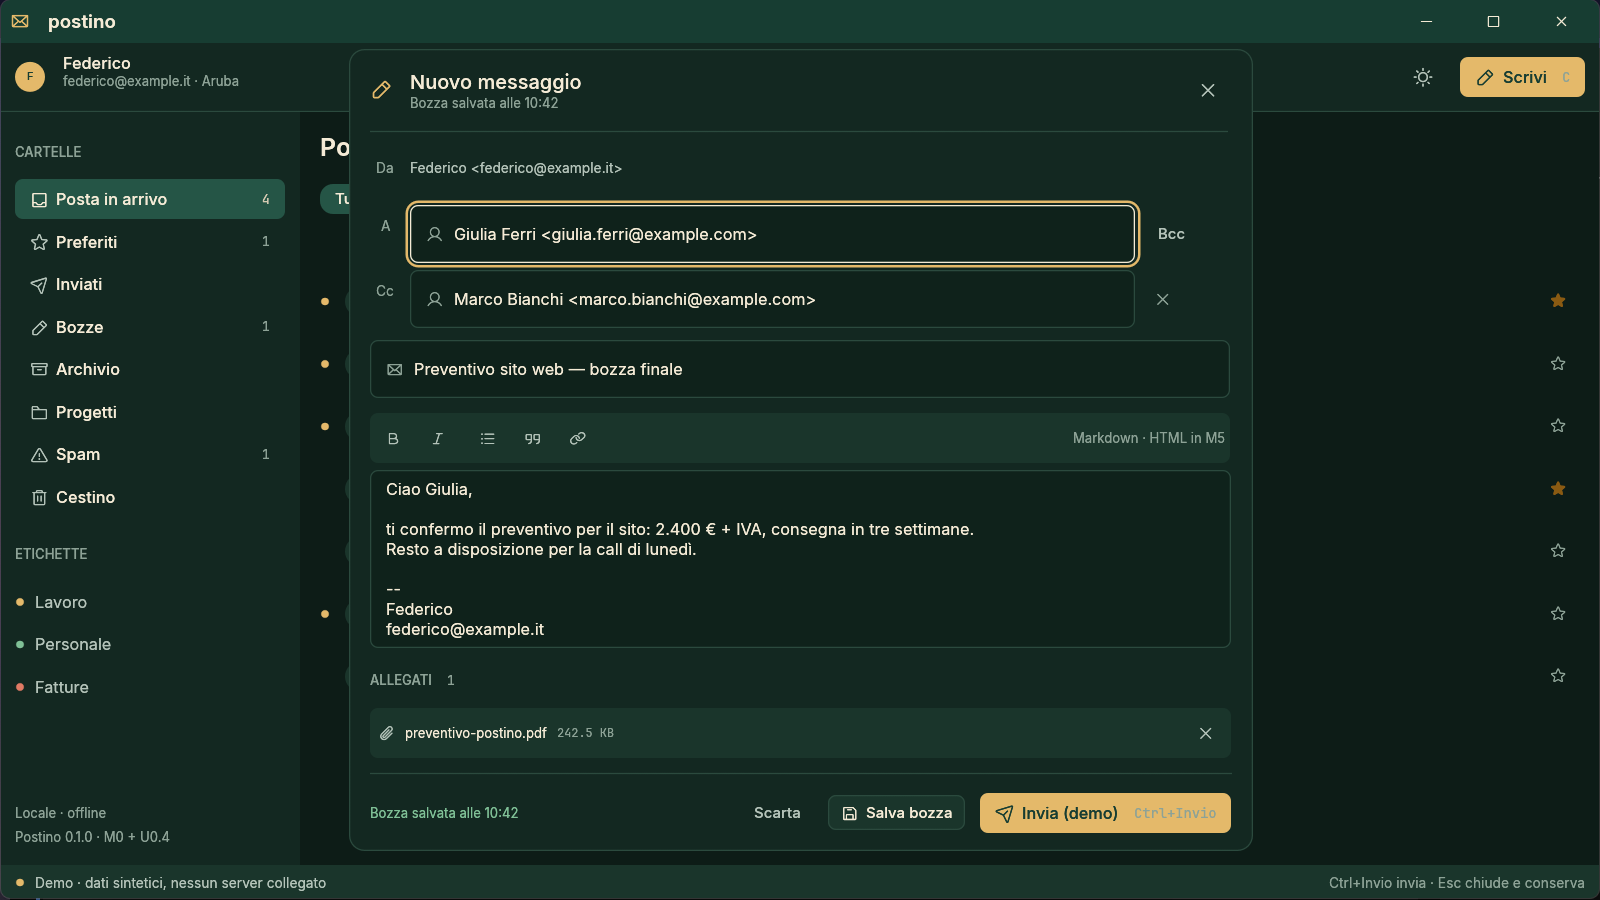
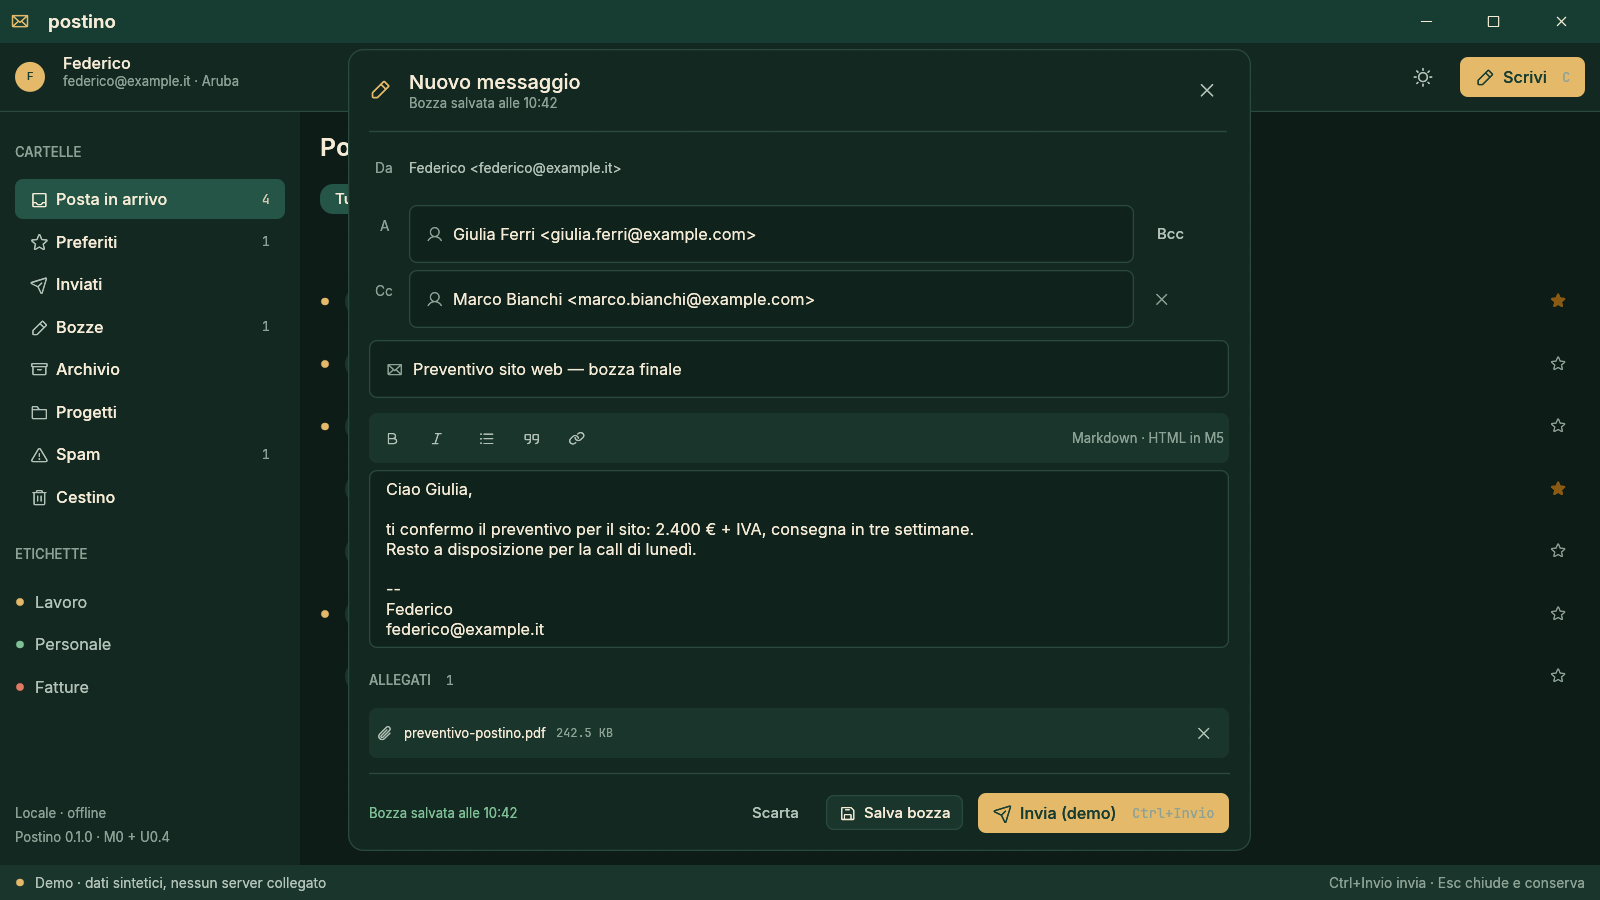
feat: deterministic screenshot harness
- Add postino-app --screenshot <state> --out <png> [--dark] for shell, reading, compose and palette.

- Capture the real egui viewport through ViewportCommand::Screenshot; no OS capture or input injection.

- Seed states deterministically, settle the read timer and disable animations for the shot.

- Regenerate the U0.4 docs images from the harness and refresh their hashes.

- Document the command in docs/development.md.

diff --git a/apps/postino-app/src/app.rs b/apps/postino-app/src/app.rs
@@ -2,15 +2,17 @@
 //! Every action goes through `Engine::call`, the same operation registry the CLI and MCP expose.
 
 use std::collections::BTreeSet;
+use std::path::{Path, PathBuf};
+use std::sync::Arc;
 use std::time::Duration;
 
 use chrono::{DateTime, Datelike, Local, Utc};
 use eframe::egui::containers::Sides;
 use eframe::egui::{
     self, Align, Align2, Color32, CornerRadius, CursorIcon, FontFamily, FontId, Frame, Key, Layout, Margin, Modifiers, Rect, ResizeDirection,
-    RichText, Sense, Stroke, Ui, UiBuilder, Vec2, ViewportCommand, WidgetInfo, WidgetType,
+    RichText, Sense, Stroke, Ui, UiBuilder, UserData, Vec2, ViewportCommand, WidgetInfo, WidgetType,
 };
-use postino_core::{Account, Address, DraftSave, DraftSend, Engine, FolderKind, Message, MessageSummary, MessagesList, SearchResult};
+use postino_core::{Account, Address, Attachment, DraftSave, DraftSend, Engine, FolderKind, Message, MessageSummary, MessagesList, SearchResult};
 use serde_json::json;
 
 use crate::theme::{self, GOLD, IVORY, Tokens};
@@ -21,6 +23,43 @@ use crate::ui::widgets::{
     AUTOSAVE_DELAY, Button, ButtonSize, Chip, ComposeMode, Composer, ComposerFocus, ComposerState, EmptyState, IconButton, IconButtonSize, ListRow,
     Menu, MenuItem, SearchField, SectionHeader, Toast, compose_body, quote_body, signature_body,
 };
+
+/// The shell scenes `--screenshot` can render. Add a label here and a branch in
+/// [`PostinoApp::seed_screenshot`] to grow the set.
+#[derive(Clone, Copy, Debug, PartialEq, Eq)]
+pub enum ScreenshotState {
+    Shell,
+    Reading,
+    Compose,
+    Palette,
+}
+
+impl ScreenshotState {
+    pub fn parse(name: &str) -> Result<Self, String> {
+        match name {
+            "shell" => Ok(Self::Shell),
+            "reading" => Ok(Self::Reading),
+            "compose" => Ok(Self::Compose),
+            "palette" => Ok(Self::Palette),
+            other => Err(format!("unknown screenshot state {other:?}; expected one of: shell, reading, compose, palette")),
+        }
+    }
+}
+
+/// A screenshot request in flight. The event can only arrive on a later frame, so the mode counts
+/// frames both before the request and while waiting for the reply.
+struct ScreenshotMode {
+    out: PathBuf,
+    frames: u32,
+    requested: bool,
+    waited: u32,
+}
+
+/// Let the layout and the font atlas settle before asking for the surface.
+const SCREENSHOT_SETTLE_FRAMES: u32 = 4;
+/// A visible window replies within a frame or two. This bound turns a hidden or minimized window
+/// into an actionable error instead of a hung process.
+const SCREENSHOT_WAIT_FRAMES: u32 = 120;
 
 pub struct PostinoApp {
     engine: Engine,
@@ -53,6 +92,8 @@ pub struct PostinoApp {
     reading_open: bool,
     reading_full: bool,
     composer: ComposerState,
+    /// Deterministic PNG capture, set only by `--screenshot`.
+    screenshot: Option<ScreenshotMode>,
 }
 
 impl PostinoApp {
@@ -60,6 +101,64 @@ impl PostinoApp {
         theme::install_fonts(&cc.egui_ctx);
         theme::apply(&cc.egui_ctx, false);
         Self::demo(custom_chrome)
+    }
+
+    /// Build the shell in the exact state a docs screenshot shows. Used only by `--screenshot`;
+    /// normal startup keeps its own constructor so nothing here runs in a user session.
+    pub fn screenshot(cc: &eframe::CreationContext<'_>, state: ScreenshotState, dark: bool, out: PathBuf) -> Self {
+        theme::install_fonts(&cc.egui_ctx);
+        theme::apply(&cc.egui_ctx, dark);
+        // A docs image must not catch the composer or palette mid fade-in: with no animation the
+        // first laid-out frame is already the final one.
+        cc.egui_ctx.all_styles_mut(|style| style.animation_time = 0.0);
+        let mut app = Self::demo(true);
+        app.dark = dark;
+        app.seed_screenshot(state);
+        app.screenshot = Some(ScreenshotMode { out, frames: 0, requested: false, waited: 0 });
+        app
+    }
+
+    /// Apply the state named on the command line. Every scene is deterministic: no timer, no
+    /// pointer and no focus side effect may change it between the first frame and the capture.
+    fn seed_screenshot(&mut self, state: ScreenshotState) {
+        match state {
+            ScreenshotState::Shell => {}
+            ScreenshotState::Reading => {
+                let first = self.visible_messages().0.first().map(|message| message.id.clone());
+                if let Some(id) = first {
+                    self.open_message(id);
+                    // Show the steady state after the 600 ms read delay: message read, no undo
+                    // toast racing the capture.
+                    self.now = 1.0;
+                    self.maybe_complete_read();
+                    self.toast = None;
+                }
+            }
+            ScreenshotState::Compose => {
+                let mut composer = ComposerState::new(ComposeMode::New);
+                composer.to = "Giulia Ferri <giulia.ferri@example.com>".to_owned();
+                composer.cc = "Marco Bianchi <marco.bianchi@example.com>".to_owned();
+                composer.show_cc = true;
+                composer.subject = "Preventivo sito web — bozza finale".to_owned();
+                composer.body = "Ciao Giulia,\n\nti confermo il preventivo per il sito: 2.400 € + IVA, consegna in tre settimane.\nResto a disposizione per la call di lunedì.\n\n-- \nFederico\nfederico@example.it"
+                    .to_owned();
+                composer.attachments = vec![Attachment {
+                    id: "att_screenshot".to_owned(),
+                    filename: "preventivo-postino.pdf".to_owned(),
+                    mime: "application/pdf".to_owned(),
+                    size: 248_320,
+                }];
+                composer.saved_at = Some("10:42".to_owned());
+                composer.focus = Some(ComposerFocus::Body);
+                self.start_composer(composer);
+            }
+            ScreenshotState::Palette => {
+                self.show_palette = true;
+                self.palette_focus = true;
+                self.palette_query = "scr".to_owned();
+                self.palette_selected = 0;
+            }
+        }
     }
 
     fn demo(custom_chrome: bool) -> Self {
@@ -91,6 +190,7 @@ impl PostinoApp {
             reading_open: false,
             reading_full: false,
             composer: ComposerState::closed(),
+            screenshot: None,
         }
     }
 
@@ -2073,7 +2173,49 @@ impl PostinoApp {
         ui.scope_builder(UiBuilder::new().max_rect(content), |ui| self.show_inner(ui));
     }
 
+    /// Drive the deterministic capture. Runs only when `--screenshot` built the app.
+    fn capture_screenshot(&mut self, ctx: &egui::Context) {
+        let Some(mode) = self.screenshot.as_mut() else {
+            return;
+        };
+        if !mode.requested {
+            mode.frames = mode.frames.saturating_add(1);
+            if mode.frames >= SCREENSHOT_SETTLE_FRAMES {
+                ctx.send_viewport_cmd(ViewportCommand::Screenshot(UserData::default()));
+                mode.requested = true;
+            }
+            ctx.request_repaint();
+            return;
+        }
+        let image = ctx.input(|input| {
+            input.events.iter().find_map(|event| match event {
+                egui::Event::Screenshot { image, .. } => Some(Arc::clone(image)),
+                _ => None,
+            })
+        });
+        if let Some(image) = image {
+            let out = mode.out.clone();
+            self.screenshot = None;
+            match write_png(&out, &image) {
+                Ok(()) => eprintln!("postino-app: screenshot saved to {}", out.display()),
+                Err(error) => {
+                    eprintln!("postino-app: cannot save screenshot: {error}");
+                    std::process::exit(1);
+                }
+            }
+            ctx.send_viewport_cmd(ViewportCommand::Close);
+            return;
+        }
+        mode.waited = mode.waited.saturating_add(1);
+        if mode.waited > SCREENSHOT_WAIT_FRAMES {
+            eprintln!("postino-app: the window did not return a screenshot after {SCREENSHOT_WAIT_FRAMES} frames; is it hidden or minimized?");
+            std::process::exit(1);
+        }
+        ctx.request_repaint();
+    }
+
     fn show_inner(&mut self, ui: &mut egui::Ui) {
+        self.capture_screenshot(ui.ctx());
         self.tick(ui.ctx());
         self.resize_handles(ui.ctx());
         self.handle_shortcuts(ui.ctx());
@@ -2494,6 +2636,22 @@ fn format_size(bytes: u64) -> String {
     }
 }
 
+/// Encode the viewport surface exactly as eframe captured it. `ColorImage` is sRGB with the same
+/// channel order as PNG's RGBA, so no conversion is involved.
+fn write_png(path: &Path, image: &egui::ColorImage) -> Result<(), String> {
+    let width = u32::try_from(image.size[0]).map_err(|_| "the screenshot is wider than a PNG allows".to_owned())?;
+    let height = u32::try_from(image.size[1]).map_err(|_| "the screenshot is taller than a PNG allows".to_owned())?;
+    let pixels = image.pixels.iter().flat_map(|color| color.to_array()).collect::<Vec<u8>>();
+    let file = std::fs::File::create(path).map_err(|error| format!("{}: {error}", path.display()))?;
+    let mut encoder = png::Encoder::new(std::io::BufWriter::new(file), width, height);
+    encoder.set_color(png::ColorType::Rgba);
+    encoder.set_depth(png::BitDepth::Eight);
+    let mut writer = encoder.write_header().map_err(|error| format!("{}: {error}", path.display()))?;
+    writer.write_image_data(&pixels).map_err(|error| format!("{}: {error}", path.display()))?;
+    writer.finish().map_err(|error| format!("{}: {error}", path.display()))?;
+    Ok(())
+}
+
 #[cfg(test)]
 mod tests {
     use super::*;
@@ -2889,5 +3047,20 @@ mod tests {
         let search = filtered_commands("stella");
         assert!(search.iter().any(|command| command.id == "star"));
         assert!(search.iter().all(|command| command.label.to_lowercase().contains("stella")));
+    }
+
+    #[test]
+    fn screenshot_states_parse_and_reject_unknown_labels() {
+        for (name, state) in [
+            ("shell", ScreenshotState::Shell),
+            ("reading", ScreenshotState::Reading),
+            ("compose", ScreenshotState::Compose),
+            ("palette", ScreenshotState::Palette),
+        ] {
+            assert_eq!(ScreenshotState::parse(name), Ok(state), "{name} must be a known scene");
+        }
+        let error = ScreenshotState::parse("labels").expect_err("labels is not a scene yet");
+        assert!(error.contains("unknown screenshot state"), "{error}");
+        assert!(error.contains("shell, reading, compose, palette"), "{error}");
     }
 }

diff --git a/apps/postino-app/src/main.rs b/apps/postino-app/src/main.rs
@@ -8,16 +8,27 @@ mod app;
 mod theme;
 mod ui;
 
+use std::path::PathBuf;
+
 use eframe::egui;
 
 const APP_ICON: &[u8] = include_bytes!("../../../assets/app-icon/postino-256.png");
 
 fn main() -> eframe::Result<()> {
     env_logger::Builder::from_env(env_logger::Env::default().default_filter_or("warn")).target(env_logger::Target::Stderr).init();
-    let gallery = std::env::args().any(|arg| arg == "--gallery");
-    let dark = std::env::args().any(|arg| arg == "--dark");
-    let native_chrome = std::env::args().any(|arg| arg == "--native-chrome");
-    let custom_chrome = !native_chrome && !cfg!(target_os = "macos");
+    let args = std::env::args().skip(1).collect::<Vec<_>>();
+    let screenshot = match parse_screenshot_args(&args) {
+        Ok(request) => request,
+        Err(error) => {
+            eprintln!("postino-app: {error}");
+            std::process::exit(2);
+        }
+    };
+    let gallery = args.iter().any(|arg| arg == "--gallery");
+    let dark = args.iter().any(|arg| arg == "--dark");
+    let native_chrome = args.iter().any(|arg| arg == "--native-chrome");
+    // A screenshot shows the real shell, including its own title bar, on every host.
+    let custom_chrome = screenshot.is_some() || (!native_chrome && !cfg!(target_os = "macos"));
     let (title, size) = if gallery { ("Postino UI kit", [1400.0, 1000.0]) } else { ("Postino", [1280.0, 720.0]) };
     let mut viewport =
         egui::ViewportBuilder::default().with_title(title).with_inner_size(size).with_min_inner_size([980.0, 600.0]).with_visible(true);
@@ -30,9 +41,27 @@ fn main() -> eframe::Result<()> {
         Err(error) => log::warn!("app icon: {error}"),
     }
     let options = eframe::NativeOptions { viewport, ..Default::default() };
+    if let Some((state, out)) = screenshot {
+        return eframe::run_native(title, options, Box::new(move |cc| Ok(Box::new(app::PostinoApp::screenshot(cc, state, dark, out)))));
+    }
     if gallery {
         eframe::run_native(title, options, Box::new(move |cc| Ok(Box::new(ui::gallery::GalleryApp::new(cc, dark)))))
     } else {
         eframe::run_native(title, options, Box::new(move |cc| Ok(Box::new(app::PostinoApp::new(cc, custom_chrome)))))
     }
+}
+
+/// Parse `--screenshot <state> --out <path.png>`. Returns `None` when the flag is absent so the
+/// normal desktop and gallery startup paths are untouched.
+fn parse_screenshot_args(args: &[String]) -> Result<Option<(app::ScreenshotState, PathBuf)>, String> {
+    let Some(position) = args.iter().position(|arg| arg == "--screenshot") else {
+        return Ok(None);
+    };
+    let name = args.get(position + 1).ok_or_else(|| "--screenshot needs a state: shell, reading, compose, palette".to_owned())?;
+    let state = app::ScreenshotState::parse(name)?;
+    let out = match args.iter().position(|arg| arg == "--out").and_then(|position| args.get(position + 1)) {
+        Some(path) => PathBuf::from(path),
+        None => return Err("--screenshot needs --out <path.png>".to_owned()),
+    };
+    Ok(Some((state, out)))
 }

diff --git a/docs/development.md b/docs/development.md
@@ -119,13 +119,22 @@ The debug binary opens a window:
 cargo run -p postino-app
 ```
 
-For a quick visual check on Windows, start the built binary and capture the screen with
-`System.Drawing` (the maintainers use this during development). Use a DPI-aware capture process:
-a 125% display turns a 1280 × 720 window into a 1600 × 900 PNG, and a DPI-unaware host captures the
-wrong rectangle. `PrintWindow` returns a black bitmap for the glow surface, so capture the window's
-client area from the screen instead. A commit-worthy screenshot must be retaken after the layout
-changes; the U0.4 set is in `docs/images/`. A future `egui_kittest` screenshot harness will make this
-part of CI and remove the dependency on an interactive desktop.
+Deterministic screenshots render the real shell without mouse or keyboard injection:
+
+```sh
+cargo run -p postino-app -- --screenshot shell --out docs/images/postino-m0.png
+cargo run -p postino-app -- --screenshot reading --out tmp-reading.png
+cargo run -p postino-app -- --screenshot compose --dark --out tmp-compose-dark.png
+```
+
+The states are `shell` (demo inbox, no selection), `reading` (first inbox message open), `compose`
+(the composer prefilled with the docs fixture) and `palette` (command palette open). `--dark`
+applies the dark theme.
+The window is 1280 × 720 logical, so at 125% DPI the PNG is 1600 × 900: the process captures its own
+viewport with `ViewportCommand::Screenshot`, writes the PNG and closes. It never injects input,
+never calls `PrintWindow` and does not need an interactive desktop. The images in `docs/images/` are
+generated from this command and never hand-cropped; regenerate them after a layout change. An
+unknown state exits with the list of supported labels instead of opening a window.
 
 ## 10. Style
 
